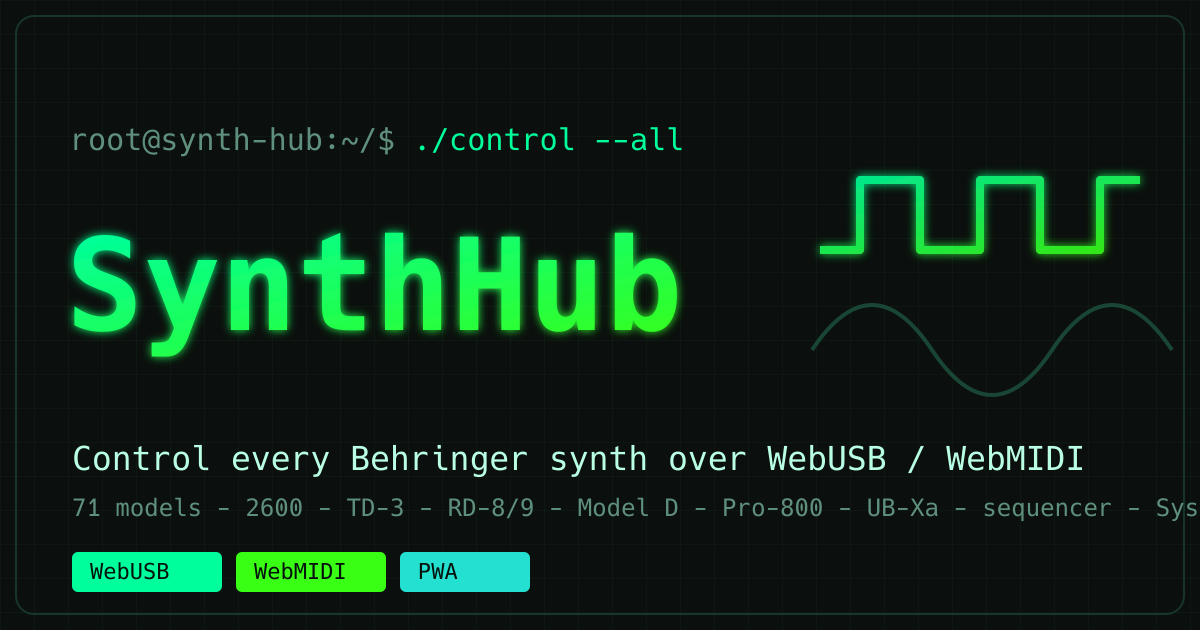
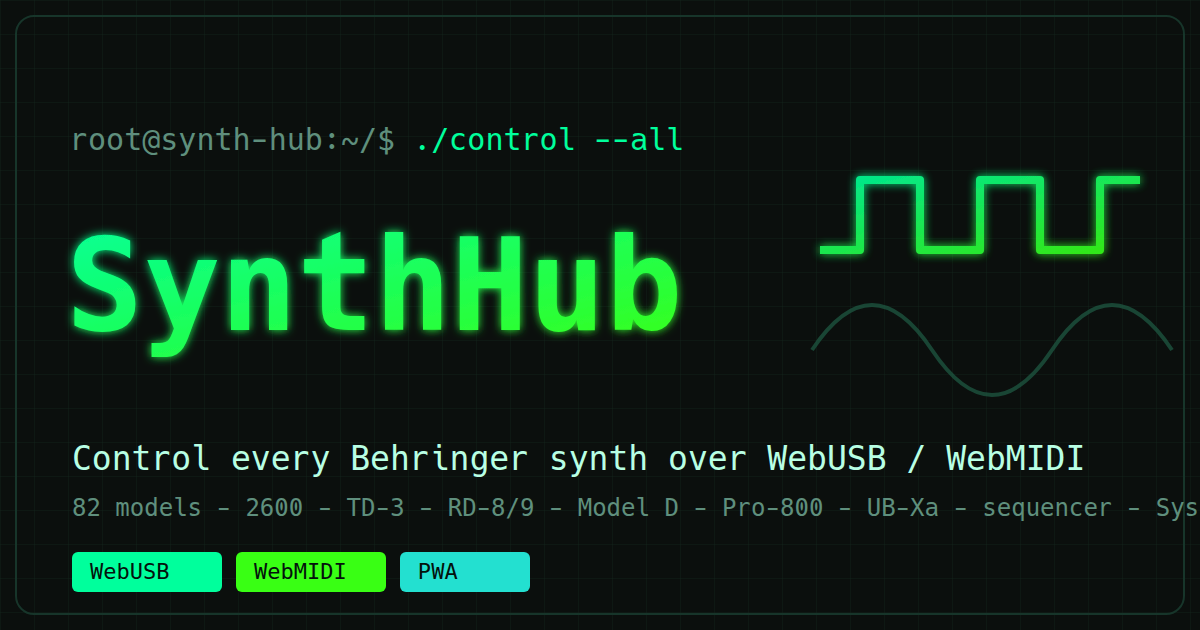
Model count: 82 models, 143 USB IDs; app pages count from the index

diff --git a/app/src/components/App.tsx b/app/src/components/App.tsx
@@ -4,7 +4,7 @@ import { Show, createEffect, createSignal, onCleanup, onMount } from 'solid-js';
 import { actions, useApp } from '../lib/store-solid';
 import { drawerOpen, setDrawerOpen, logOpen } from '../lib/ui';
 import { slugFromPath, syncUrl } from '../lib/nav';
-import { meta } from '../devices/registry';
+import { deviceIndex, meta } from '../devices/registry';
 import { registerServiceWorker } from '../lib/pwa';
 import { bootstrapAnalyticsIdentity } from '../lib/analytics';
 import { installGlobalHotkeys, onCommand } from '../lib/hotkeys';
@@ -91,8 +91,10 @@ export default function App(props: { initialSlug?: string }) {
                   explore its controls offline.
                 </p>
                 <p class="tiny dim">
-                  71 models - 130 USB IDs - WebUSB discovery + WebMIDI SysEx
-                  control. Everything runs locally in your browser.
+                  {deviceIndex.length} models -{' '}
+                  {new Set(deviceIndex.flatMap((d) => d.pids)).size} USB IDs -
+                  WebUSB discovery + WebMIDI SysEx control. Everything runs
+                  locally in your browser.
                 </p>
                 <DeviceGallery />
               </div>

diff --git a/README.md b/README.md
@@ -14,7 +14,7 @@ entirely in your browser.
 The Web App that manages every
 Behringer synthesizer over USB - an alternative to Behringer's SynthTribe
 desktop editor. Edit device settings, run the step sequencer, record MIDI, and
-check firmware status for **71 Behringer models** directly in your browser, with
+check firmware status for **82 Behringer models** directly in your browser, with
 no install and no drivers.
 
 **Supported synths include:** Behringer 2600 (Blue Marvin / Gray Meanie), TD-3,
@@ -24,7 +24,7 @@ Proton, JT-4000, JT-2, CAT, Solina, Vocoder VC340 and many more.
 
 - Device discovery over **WebUSB** (Behringer vendor id `0x1397`).
 - Device control over **WebMIDI** SysEx (USB-MIDI) - settings, sequencer.
-- **71 device models**, **130 USB product IDs**.
+- **82 device models**, **143 USB product IDs**.
 - Per-device settings UI (dropdowns / toggles / spin boxes / radios / sliders),
   a full sequencer editor (ratchets, per-step velocity / gate / probability,
   directions, live MIDI-in recording), CV calibration references and poly-chain.
